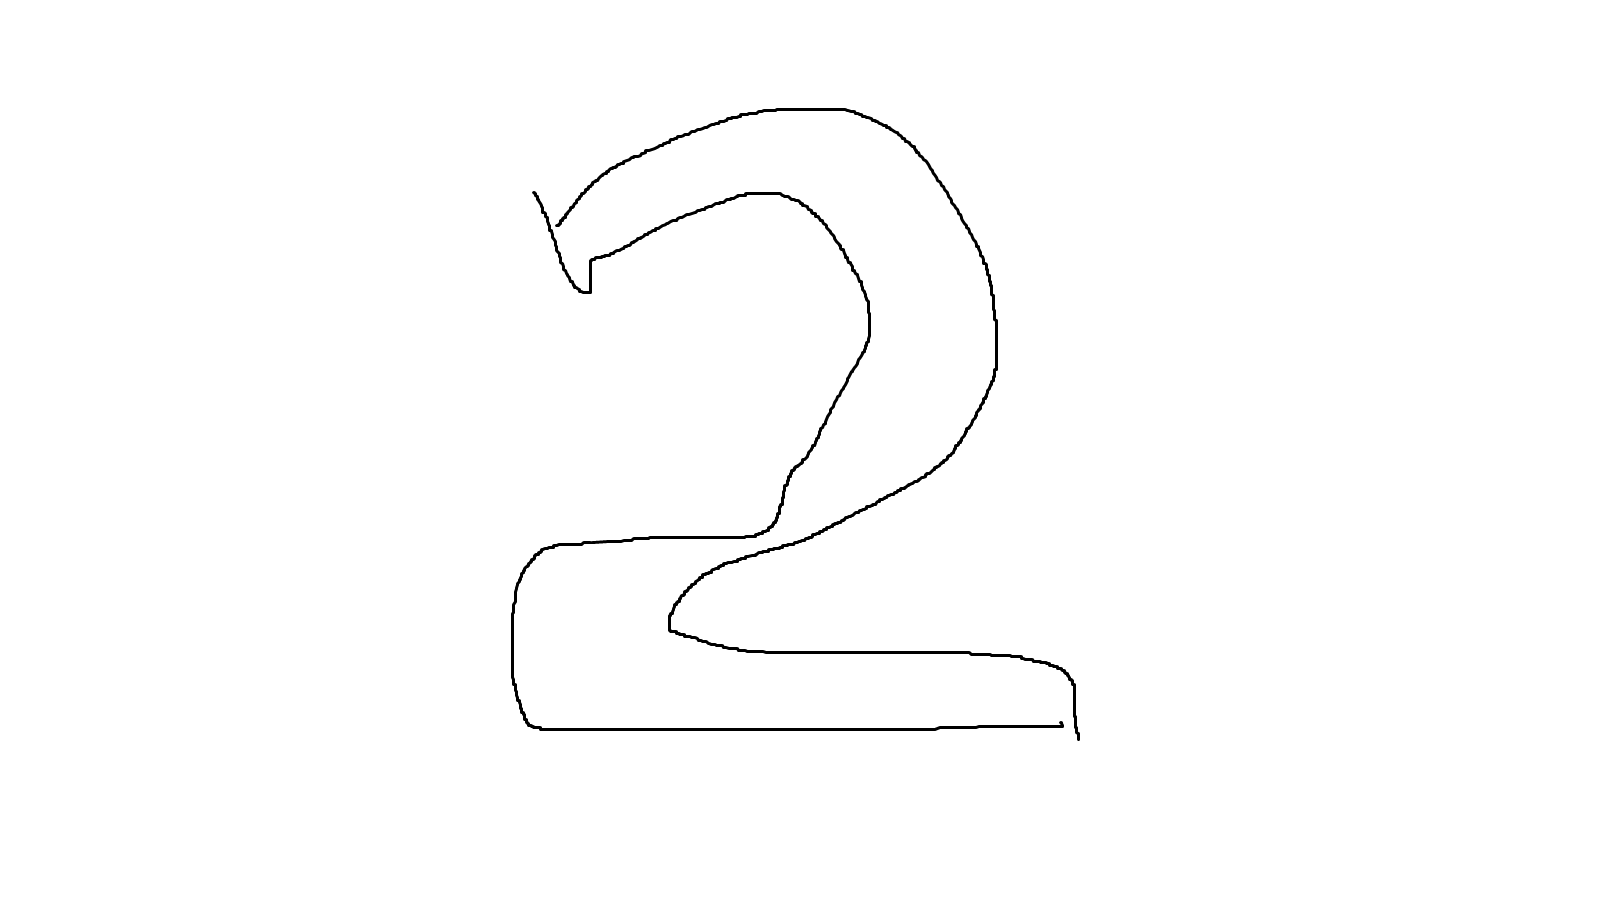
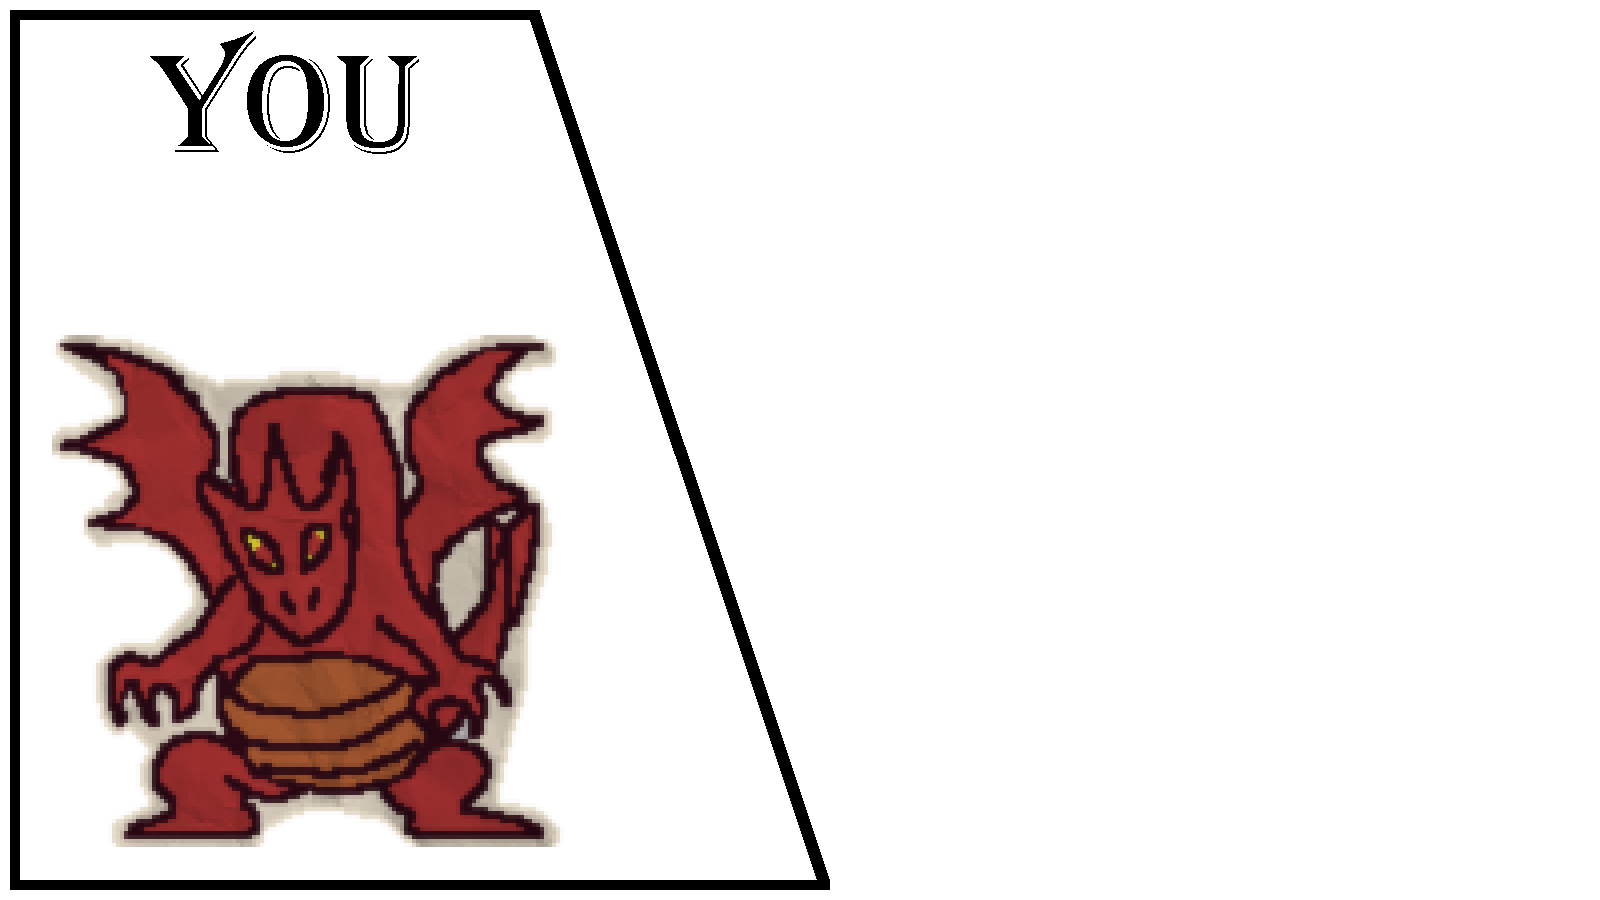
update cut scean

diff --git a/project/DragonicTactics/source/Game/DragonicTactics/States/GamePlay.cpp b/project/DragonicTactics/source/Game/DragonicTactics/States/GamePlay.cpp
@@ -424,6 +424,7 @@ void GamePlay::Load()
   m_cutscene_textures_[0] = Engine::GetTextureManager().Load("Assets/images/cut1.png");
   m_cutscene_textures_[1] = Engine::GetTextureManager().Load("Assets/images/cut2.png");
   m_cutscene_textures_[2] = Engine::GetTextureManager().Load("Assets/images/cut3.png");
+  m_cutscene_textures_[3] = Engine::GetTextureManager().Load("Assets/images/cut4.png");
   m_cutscene_index_ = 0;
   m_cutscene_timer_ = 0.0;
 }
@@ -498,7 +499,10 @@ void GamePlay::Update(double dt)
 	  m_cutscene_index_ = CUTSCENE_COUNT;
 	  return;
 	}
-	if (inp.MouseJustPressed(0) || inp.KeyJustPressed(CS230::Input::Keys::Space))
+	if (inp.MouseJustPressed(0) || 
+      inp.KeyJustPressed(CS230::Input::Keys::Space)||
+      inp.KeyJustPressed(CS230::Input::Keys::Z)||
+      inp.KeyJustPressed(CS230::Input::Keys::Enter))
 	  m_cutscene_timer_ = CUTSCENE_DURATION;
 
 	m_cutscene_timer_ += dt;
@@ -566,12 +570,12 @@ void GamePlay::Update(double dt)
     }
   }
 
-  TurnManager*				turnMgr		 = GetGSComponent<TurnManager>();
-  GridSystem*				grid		 = GetGSComponent<GridSystem>();
-  CombatSystem*				combatSystem = GetGSComponent<CombatSystem>();
-  AISystem*					aiSystem	 = GetGSComponent<AISystem>();
+  TurnManager*				      turnMgr		 = GetGSComponent<TurnManager>();
+  GridSystem*				        grid		 = GetGSComponent<GridSystem>();
+  CombatSystem*				      combatSystem = GetGSComponent<CombatSystem>();
+  AISystem*					        aiSystem	 = GetGSComponent<AISystem>();
   CS230::GameObjectManager* goMgr		 = GetGSComponent<CS230::GameObjectManager>();
-  DebugManager*				debugMgr	 = GetGSComponent<DebugManager>();
+  DebugManager*				      debugMgr	 = GetGSComponent<DebugManager>();
 
   if (Engine::GetInput().KeyJustPressed(CS230::Input::Keys::Escape))
   {

diff --git a/project/DragonicTactics/source/Game/DragonicTactics/States/GamePlay.h b/project/DragonicTactics/source/Game/DragonicTactics/States/GamePlay.h
@@ -86,7 +86,7 @@ class GamePlay : public CS230::GameState
 
   // Cutscene
   static constexpr double CUTSCENE_DURATION = 1.5;
-  static constexpr int    CUTSCENE_COUNT    = 3;
+  static constexpr int    CUTSCENE_COUNT    = 4;
   int    m_cutscene_index_ = 0;
   double m_cutscene_timer_ = 0.0;
   std::vector<std::shared_ptr<CS230::Texture>> m_cutscene_textures_;
